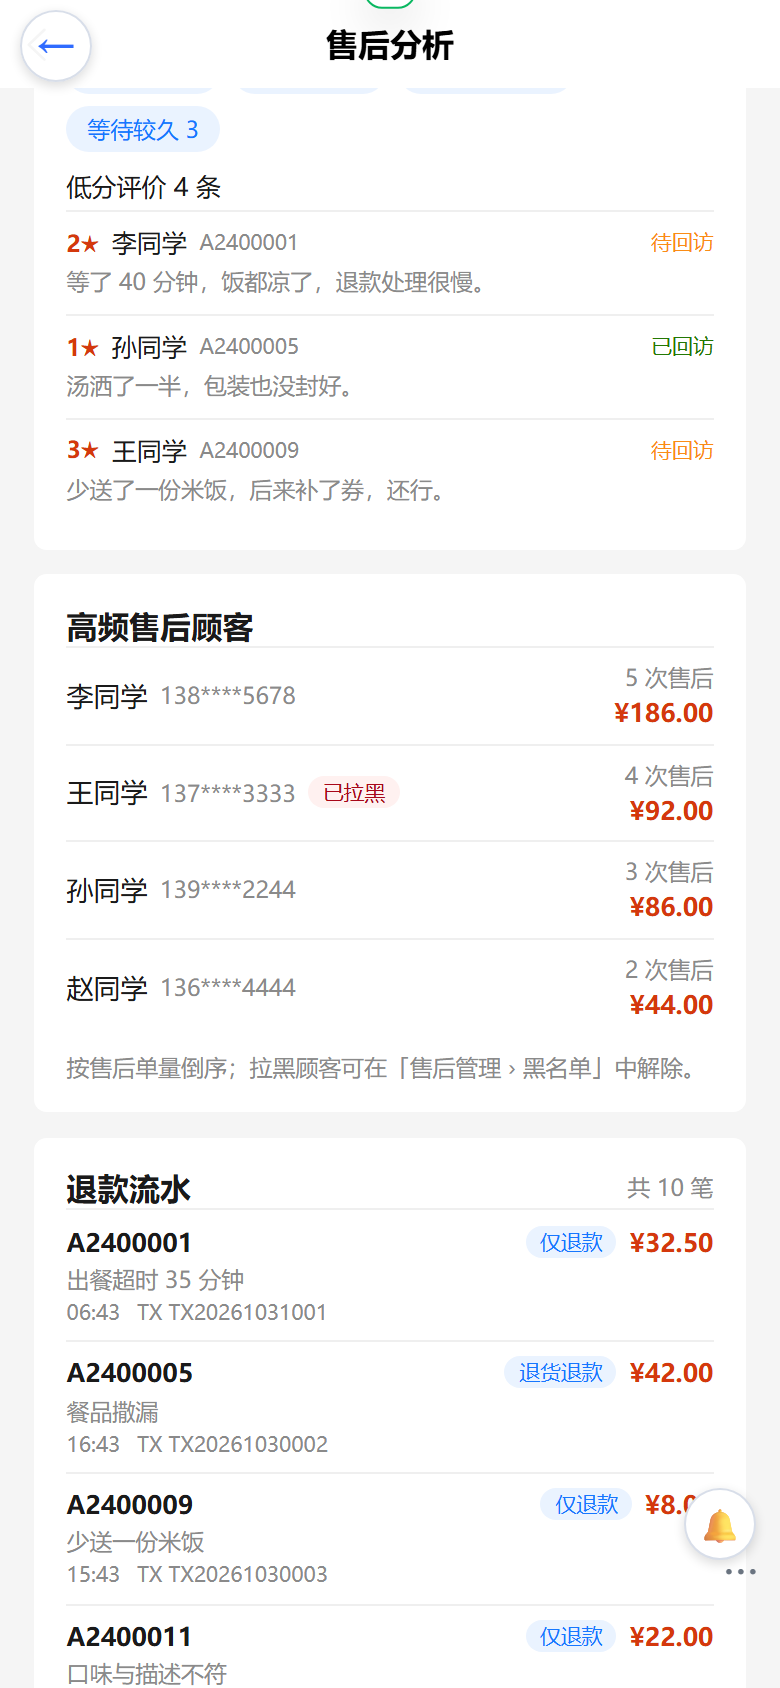
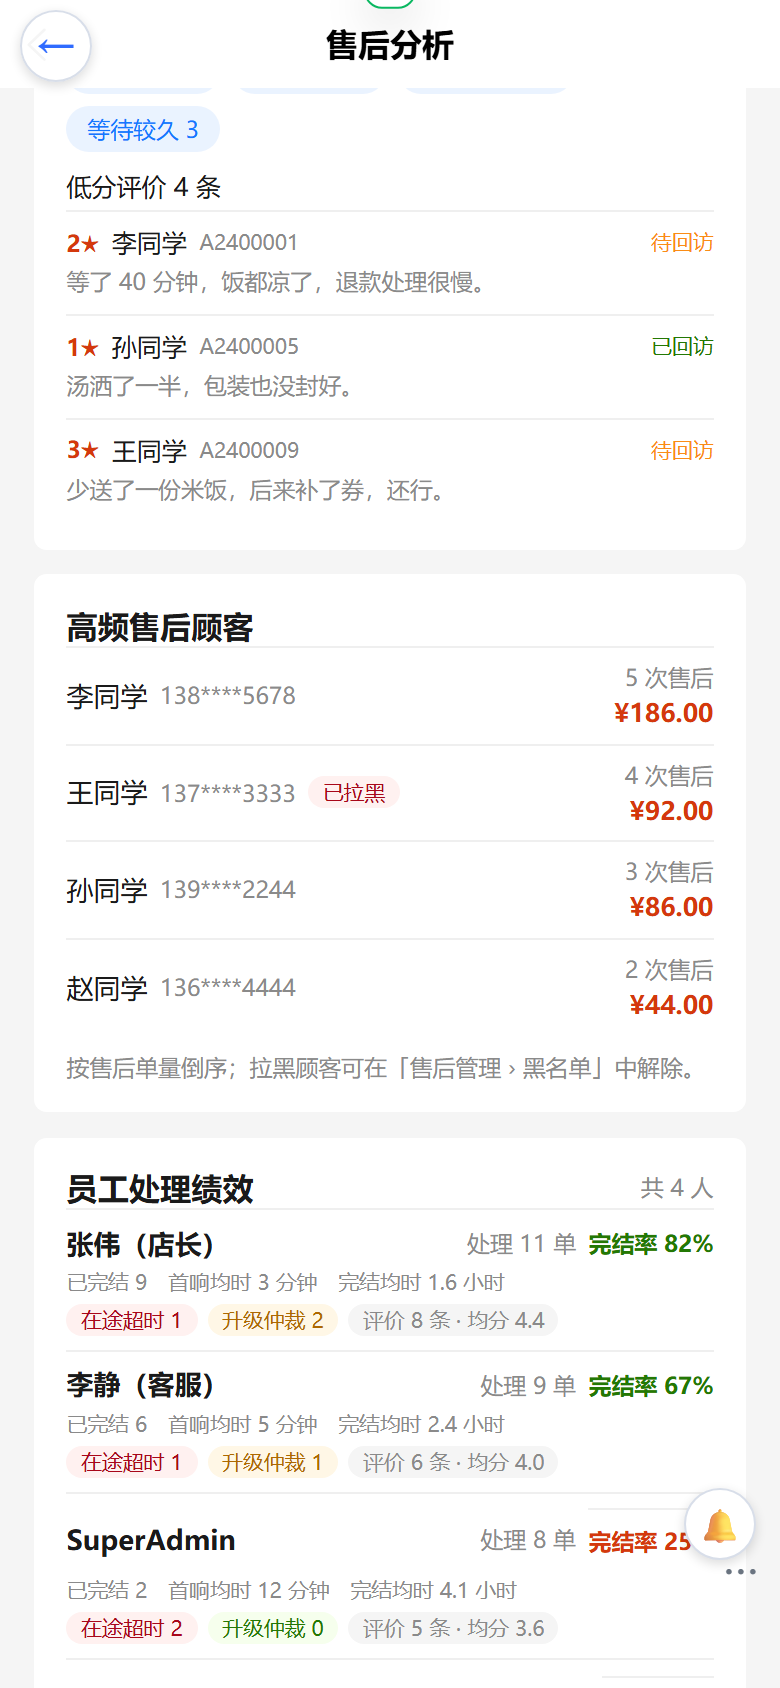
feat(waimai): 售后分析页接入员工处理绩效（§104）
- campus.ts 新增 MerchantAfterSalesStaffStat 接口与 campusMerchantAfterSalesStaffStats(from,to) 封装
- after-sales-analytics.vue 新增「员工处理绩效」卡片（处理量/完结率/完结数/首响均时/完结均时/在途超时/升级仲裁/评价均分），并入 loadAll 并发请求
- i18n 中英新增 13 键（campusAfterSalesAnalytics staff*）
- 截图脚本扩至 11 张，mock staffStats，新增 08-analytics-staff.png
- 手册 §104 更新交付清单/契约/验证记录/部署记录

diff --git a/web-admin/src/pages/campus/after-sales-analytics.vue b/web-admin/src/pages/campus/after-sales-analytics.vue
@@ -303,6 +303,43 @@
         <text class="tip">{{ $t('campusAfterSalesAnalytics.customerTip') }}</text>
       </view>
 
+      <!-- 员工处理绩效 -->
+      <view class="card">
+        <view class="head">
+          <text class="title">{{ $t('campusAfterSalesAnalytics.staffTitle') }}</text>
+          <text class="sub">{{ $t('campusAfterSalesAnalytics.staffSub').replace('{n}', String(staffStats.length)) }}</text>
+        </view>
+        <view v-if="!staffStats.length" class="inline-empty">{{ $t('campusAfterSalesAnalytics.staffEmpty') }}</view>
+        <view v-for="s in staffStats" :key="s.operatorUserId" class="staff">
+          <view class="s-head">
+            <text class="s-name">{{ s.operatorName }}</text>
+            <text class="s-handled">{{ $t('campusAfterSalesAnalytics.staffHandled').replace('{n}', String(s.handled)) }}</text>
+            <text class="s-rate" :class="{ low: s.resolveRate < 60 }">
+              {{ $t('campusAfterSalesAnalytics.staffRate').replace('{n}', String(s.resolveRate)) }}
+            </text>
+          </view>
+          <view class="s-meta">
+            <text class="s-m">{{ $t('campusAfterSalesAnalytics.staffResolved').replace('{n}', String(s.resolved)) }}</text>
+            <text class="s-m">{{ $t('campusAfterSalesAnalytics.staffFirstAvg').replace('{n}', minutesText(s.firstActionAvgMinutes)) }}</text>
+            <text class="s-m">{{ $t('campusAfterSalesAnalytics.staffResolveAvg').replace('{n}', minutesText(s.resolveAvgMinutes)) }}</text>
+          </view>
+          <view class="s-tags">
+            <text class="s-tag" :class="{ bad: s.overdueCount > 0 }">
+              {{ $t('campusAfterSalesAnalytics.staffOverdue').replace('{n}', String(s.overdueCount)) }}
+            </text>
+            <text class="s-tag" :class="{ warn: s.escalatedCount > 0 }">
+              {{ $t('campusAfterSalesAnalytics.staffEscalated').replace('{n}', String(s.escalatedCount)) }}
+            </text>
+            <text class="s-tag muted">
+              {{ s.reviewCount
+                ? $t('campusAfterSalesAnalytics.staffReview').replace('{n}', String(s.reviewCount)).replace('{score}', s.reviewAvgScore.toFixed(1))
+                : $t('campusAfterSalesAnalytics.staffNoReview') }}
+            </text>
+          </view>
+        </view>
+        <text class="tip">{{ $t('campusAfterSalesAnalytics.staffTip') }}</text>
+      </view>
+
       <!-- 退款流水 -->
       <view class="card">
         <view class="head">
@@ -369,6 +406,7 @@ import {
   campusMerchantAfterSalesRefunds,
   campusMerchantAfterSalesReport,
   campusMerchantAfterSalesReviewSummary,
+  campusMerchantAfterSalesStaffStats,
   campusMerchantAfterSalesStats,
   campusMerchantAfterSalesTopCustomers,
   type MerchantAfterSalesProductRow,
@@ -376,6 +414,7 @@ import {
   type MerchantAfterSalesRefundRow,
   type MerchantAfterSalesReport,
   type MerchantAfterSalesReviewSummary,
+  type MerchantAfterSalesStaffStat,
   type MerchantAfterSalesStats,
   type MerchantAfterSalesTopCustomer,
 } from '../../apis/campus';
@@ -447,6 +486,7 @@ const reasons = ref<MerchantAfterSalesReasonRow[]>([]);
 const products = ref<MerchantAfterSalesProductRow[]>([]);
 const review = ref<MerchantAfterSalesReviewSummary>(emptyReview());
 const topCustomers = ref<MerchantAfterSalesTopCustomer[]>([]);
+const staffStats = ref<MerchantAfterSalesStaffStat[]>([]);
 const refunds = ref<MerchantAfterSalesRefundRow[]>([]);
 const refundTotal = ref(0);
 const loadingMore = ref(false);
@@ -530,18 +570,20 @@ async function loadLive(): Promise<void> {
 async function loadAll(): Promise<void> {
   const from = fromKey.value;
   const to = toKey.value;
-  const [rep, rea, prod, rv, cust] = await Promise.all([
+  const [rep, rea, prod, rv, cust, staff] = await Promise.all([
     campusMerchantAfterSalesReport(from, to),
     campusMerchantAfterSalesReasonReport(from, to, 10),
     campusMerchantAfterSalesProductReport(from, to, 10),
     campusMerchantAfterSalesReviewSummary(from, to),
     campusMerchantAfterSalesTopCustomers(from, to, 10),
+    campusMerchantAfterSalesStaffStats(from, to),
   ]);
   report.value = rep;
   reasons.value = rea;
   products.value = prod;
   review.value = rv;
   topCustomers.value = cust;
+  staffStats.value = staff;
   const page = await campusMerchantAfterSalesRefunds({ from, to, skip: 0, take: 20 });
   refunds.value = page.items;
   refundTotal.value = page.total;
@@ -804,6 +846,26 @@ onPullDownRefresh(async () => {
     .c-nums { display: flex; flex-direction: column; align-items: flex-end; gap: 4rpx;
       .c-count { font-size: 22rpx; color: $wa-muted; }
       .c-amt { font-size: 24rpx; color: #d4380d; font-weight: 600; }
+    }
+  }
+  .staff { padding: 14rpx 0; border-top: 1px solid $wa-rule;
+    .s-head { display: flex; align-items: center; gap: 12rpx;
+      .s-name { flex: 1; font-size: 26rpx; color: $wa-ink; font-weight: 600; }
+      .s-handled { font-size: 22rpx; color: $wa-muted; }
+      .s-rate { font-size: 22rpx; color: #237804; font-weight: 600;
+        &.low { color: #d4380d; }
+      }
+    }
+    .s-meta { display: flex; align-items: center; flex-wrap: wrap; gap: 8rpx 20rpx; margin-top: 6rpx;
+      .s-m { font-size: 20rpx; color: $wa-muted; }
+    }
+    .s-tags { display: flex; align-items: center; flex-wrap: wrap; gap: 10rpx; margin-top: 8rpx;
+      .s-tag { font-size: 20rpx; color: #237804; background: #f6ffed;
+        border-radius: 999rpx; padding: 2rpx 14rpx;
+        &.bad { color: #a8071a; background: #fff1f0; }
+        &.warn { color: #ad6800; background: #fff7e6; }
+        &.muted { color: $wa-muted; background: $wa-bg; }
+      }
     }
   }
   .refund { padding: 14rpx 0; border-top: 1px solid $wa-rule;

diff --git a/web-admin/src/apis/campus.ts b/web-admin/src/apis/campus.ts
@@ -2578,6 +2578,38 @@ export async function campusMerchantAfterSalesExportByIds(ids: string[], kind: '
   return res.campusMerchantAfterSalesExportByIds ?? '';
 }
 
+export interface MerchantAfterSalesStaffStat {
+  operatorUserId: string;
+  operatorName: string;
+  handled: number;
+  resolved: number;
+  firstActionAvgMinutes: number;
+  resolveAvgMinutes: number;
+  overdueCount: number;
+  escalatedCount: number;
+  /** 完结率，0~100 整数（后端已按百分比取整） */
+  resolveRate: number;
+  reviewCount: number;
+  reviewAvgScore: number;
+}
+
+/** 员工处理绩效（§104）：按操作人统计处理量 / 完结 / 首响与完结耗时 / 超时 / 升级 / 评价 */
+export async function campusMerchantAfterSalesStaffStats(
+  from: string,
+  to: string,
+): Promise<MerchantAfterSalesStaffStat[]> {
+  const res = await getAdminClient().request<{ campusMerchantAfterSalesStaffStats: MerchantAfterSalesStaffStat[] }>(
+    `query ($from: String!, $to: String!) {
+      campusMerchantAfterSalesStaffStats(from: $from, to: $to) {
+        operatorUserId operatorName handled resolved firstActionAvgMinutes resolveAvgMinutes
+        overdueCount escalatedCount resolveRate reviewCount reviewAvgScore
+      }
+    }`,
+    { from, to },
+  );
+  return res.campusMerchantAfterSalesStaffStats ?? [];
+}
+
 /* ================= §105 售后自动化 ================= */
 
 export interface MerchantAfterSalesAutoRule {

diff --git a/docs/waimai-操作手册.md b/docs/waimai-操作手册.md
@@ -5340,13 +5340,13 @@ mutation campusMerchantAfterSalesScheduleRefundRetry(id: ID!) {
 
 | 端 | 文件 | 内容 |
 |---|---|---|
-| 后台 API | `web-admin/src/apis/campus.ts`（§104 段） | 当前态势（stats）、区间报表（report，含环比）、原因分布、商品退款排行、评价满意度、高频顾客、退款流水（分页）、CSV 导出（按条件 / 按选中单） |
-| 新页 | `web-admin/src/pages/campus/after-sales-analytics.vue` | 统计区间（今日 / 近 7 日 / 近 30 日 / 自定义）→ 当前态势 → 区间概览（含环比）→ 时效（首响 / 完结 / 达标率）→ 按天趋势 → 类型 / 状态分布 → 原因分布 → 商品退款 Top10 → 评价满意度 → 高频顾客 → 退款流水分页 → 导出 sheet |
+| 后台 API | `web-admin/src/apis/campus.ts`（§104 段） | 当前态势（stats）、区间报表（report，含环比）、原因分布、商品退款排行、评价满意度、高频顾客、员工绩效（staffStats）、退款流水（分页）、CSV 导出（按条件 / 按选中单） |
+| 新页 | `web-admin/src/pages/campus/after-sales-analytics.vue` | 统计区间（今日 / 近 7 日 / 近 30 日 / 自定义）→ 当前态势 → 区间概览（含环比）→ 时效（首响 / 完结 / 达标率）→ 按天趋势 → 类型 / 状态分布 → 原因分布 → 商品退款 Top10 → 评价满意度 → 高频顾客 → 员工绩效 → 退款流水分页 → 导出 sheet |
 | 注册 | `web-admin/src/pages.json` | `pages/campus/after-sales-analytics`，`enablePullDownRefresh: true` |
 | 入口 | `web-admin/src/pages/campus/merchant-after-sales.vue` | 顶部入口胶囊新增「售后分析」（与「售后自动化」并列） |
-| i18n | `web-admin/src/locale/{zh-Hans,en}.json` | 新增 `campusAfterSalesAnalytics`（101 键） |
-| 截图脚本 | `web-admin/scripts/shots-p104-after-sales-analytics.cjs` | 10 张 |
-| 截图 | `docs/screenshots/waimai/p104-after-sales-analytics/` | 01~08b + 09 导出 sheet + 10 入口 |
+| i18n | `web-admin/src/locale/{zh-Hans,en}.json` | 新增 `campusAfterSalesAnalytics`（114 键） |
+| 截图脚本 | `web-admin/scripts/shots-p104-after-sales-analytics.cjs` | 11 张 |
+| 截图 | `docs/screenshots/waimai/p104-after-sales-analytics/` | 01~07 + 08 员工绩效 + 09/09b 退款流水 + 10 导出 sheet + 11 入口 |
 
 ### 104.2 契约
 
@@ -5372,6 +5372,9 @@ query ($from: String!, $to: String!) { campusMerchantAfterSalesReviewSummary(fro
   total avgScore lowScoreCount distribution { score count } topTags { tag count } } }
 query ($from: String!, $to: String!) { campusMerchantAfterSalesTopCustomers(from: $from, to: $to, limit: Int) {
   customerId name phone count refundAmount blacklisted } }
+query ($from: String!, $to: String!) { campusMerchantAfterSalesStaffStats(from: $from, to: $to) {
+  operatorUserId operatorName handled resolved firstActionAvgMinutes resolveAvgMinutes
+  overdueCount escalatedCount resolveRate reviewCount reviewAvgScore } }
 
 # 导出：kind = requests | refunds | escalations（返回 CSV 文本，含 UTF-8 BOM）
 query ($from: String!, $to: String!, $kind: String!, $state: String, $type: String,
@@ -5384,7 +5387,7 @@ query ($ids: [ID!]!, $kind: String!) { campusMerchantAfterSalesExportByIds(ids: 
 
 **`kind` 取值严格受限**：条件导出 `requests | refunds | escalations`，按选中单导出 `requests | refunds`（传其它值后端拒绝）。
 
-**员工绩效接口已可用、页面暂未接入**：`campusMerchantAfterSalesStaffStats` 的 SQL 参数位缺陷已于 2026-10-31 热修（详见 103.5 / 103.6），接口回归 PASS；为避免与 §103 同步上线的大范围改动叠加，§104 页面暂不渲染员工维度，后续可按 11 字段（`operatorUserId / operatorName / handled / resolved / firstActionAvgMinutes / resolveAvgMinutes / overdueCount / escalatedCount / resolveRate / reviewCount / reviewAvgScore`）直接接入。
+**员工绩效已接入页面（2026-10-31）**：`campusMerchantAfterSalesStaffStats` 的 SQL 参数位缺陷已于 2026-10-31 热修（详见 103.5 / 103.6），随后新增前端封装 `campusMerchantAfterSalesStaffStats(from, to)` 并在「高频售后顾客」之后渲染「员工处理绩效」卡片，展示 11 字段：处理人（`operatorName`）、处理量（`handled`）、完结数（`resolved`）、完结率（`resolveRate`，后端已是 0~100 整数，前端直接拼 `%`）、首响均时（`firstActionAvgMinutes`）、完结均时（`resolveAvgMinutes`）、在途超时（`overdueCount`）、升级仲裁（`escalatedCount`）、评价数与均分（`reviewCount / reviewAvgScore`）。列表按处理量倒序；完结率 < 60% 标红，超时 > 0 标红、升级 > 0 标橙，无评价显示「暂无评价」。
 
 ### 104.3 校验与边界
 
@@ -5405,9 +5408,10 @@ query ($ids: [ID!]!, $kind: String!) { campusMerchantAfterSalesExportByIds(ids: 
 | 截图 02 | 时效：首响均时 / 完结核均时 / 首响达标率 / 完结达标率 / 超时数 |
 | 截图 03 / 04 / 05 | 按天趋势、原因分布（含退款占比）、商品退款 Top10 |
 | 截图 06 / 07 | 评价满意度（均分 / 低分占比 / 星级分布 / 高频标签）、高频顾客（含是否拉黑） |
-| 截图 08 / 08b | 退款流水首屏 + 「加载更多」第二页 |
-| 截图 09 | 导出 sheet「导出售后数据」：三种导出内容（售后单明细 / 退款流水 / 升级仲裁记录）+ 区间回显 + 「导出」按钮 |
-| 截图 10 | 商家售后页顶部入口出现「售后分析」胶囊 |
+| 截图 08 | 员工绩效：4 行（张伟（店长）/ 李静（客服）/ SuperAdmin / 王强（后厨）），处理量、完结率（82% / 67% / 25% / 0%）、完结数、首响均时、完结均时（96 分钟→1.6 小时）、在途超时 / 升级仲裁 / 评价数与均分、无评价显示「暂无评价」 |
+| 截图 09 / 09b | 退款流水首屏 + 「加载更多」第二页 |
+| 截图 10 | 导出 sheet「导出售后数据」：三种导出内容（售后单明细 / 退款流水 / 升级仲裁记录）+ 区间回显 + 「导出」按钮 |
+| 截图 11 | 商家售后页顶部入口出现「售后分析」胶囊 |
 | 页面报错 | 无 `pageerror` / `console error` |
 
 ### 104.5 生产探针（admin-api，`canteen-a` 渠道，只读，区间 `2026-10-01 ~ 2026-10-31`）
@@ -5429,8 +5433,8 @@ query ($ids: [ID!]!, $kind: String!) { campusMerchantAfterSalesExportByIds(ids: 
 | 端 | 动作 | 结果 |
 |---|---|---|
 | 后端 | 热修 2026-10-31（同 §103.6）：`campus-delivery-plugin` 两处 SQL 参数位改为 `$2/$3`，编译后覆盖 `lib/src/merchant-admin.service.js` 并 `pm2 restart vendure` | 探针 1~9 全部 PASS |
-| 后台 | `node D:\zhao\vshop\web-admin\scripts\deploy.mjs` | `[deploy] 产物校验通过: 62177 KB` → nginx `test is successful` + reload → `deploy done` |
-| 线上 chunk | `https://e.joho.cn/guanli/assets/` | `pages-campus-after-sales-analytics.B51yK-3p.js` 200 / 24036 B、`after-sales-analytics-BXvDcWX3.css` 200 / 11533 B |
+| 后台 | `node D:\zhao\vshop\web-admin\scripts\deploy.mjs` | `[deploy] 产物校验通过: 62182 KB` → nginx `test is successful` + reload → `deploy done` |
+| 线上 chunk | `https://e.joho.cn/guanli/assets/` | `pages-campus-after-sales-analytics.8H2RRkqu.js` 200 / 26334 B、`after-sales-analytics-MwjnbohM.css` 200 / 12748 B（员工绩效接入后重新部署） |
 
 操作入口：商家工作台 →「售后申请」→ 顶部入口「售后分析」→ 选择区间查看报表；右上「导出」选择导出内容与区间，生成 CSV。
 
